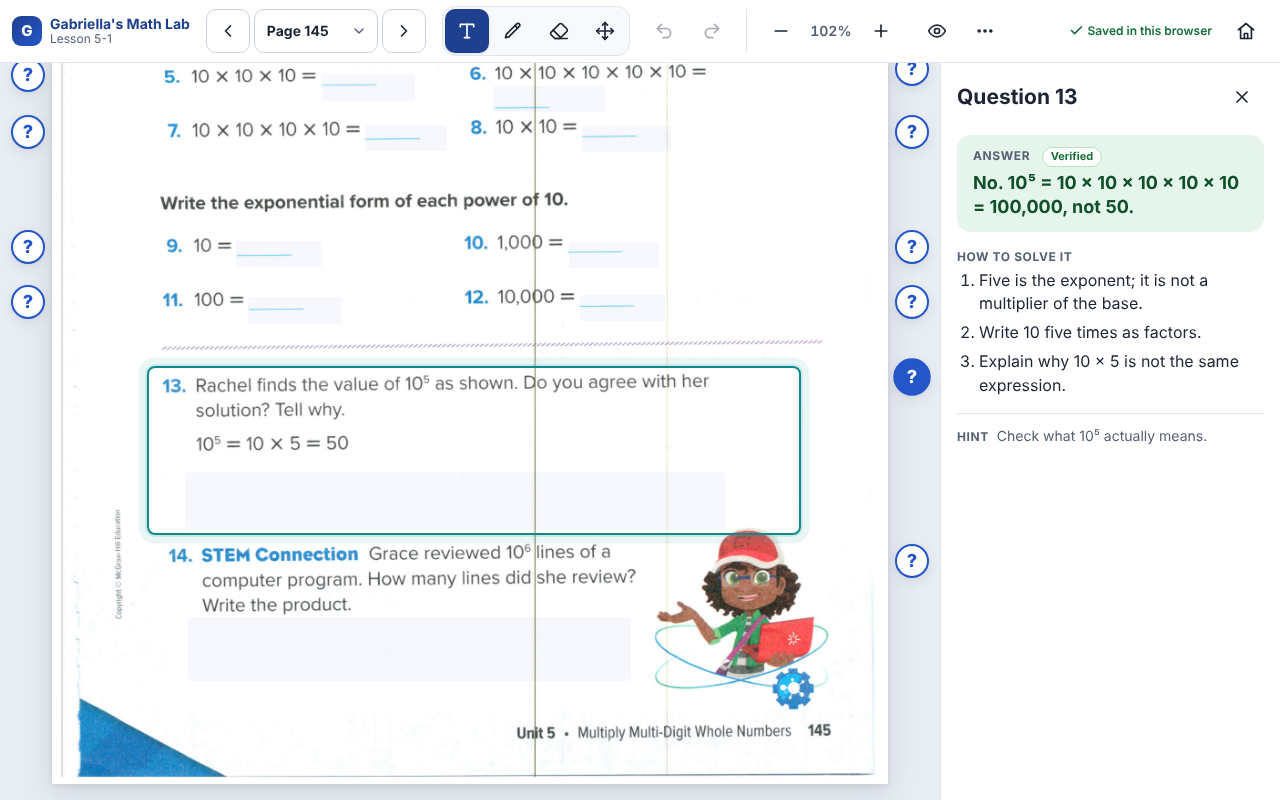
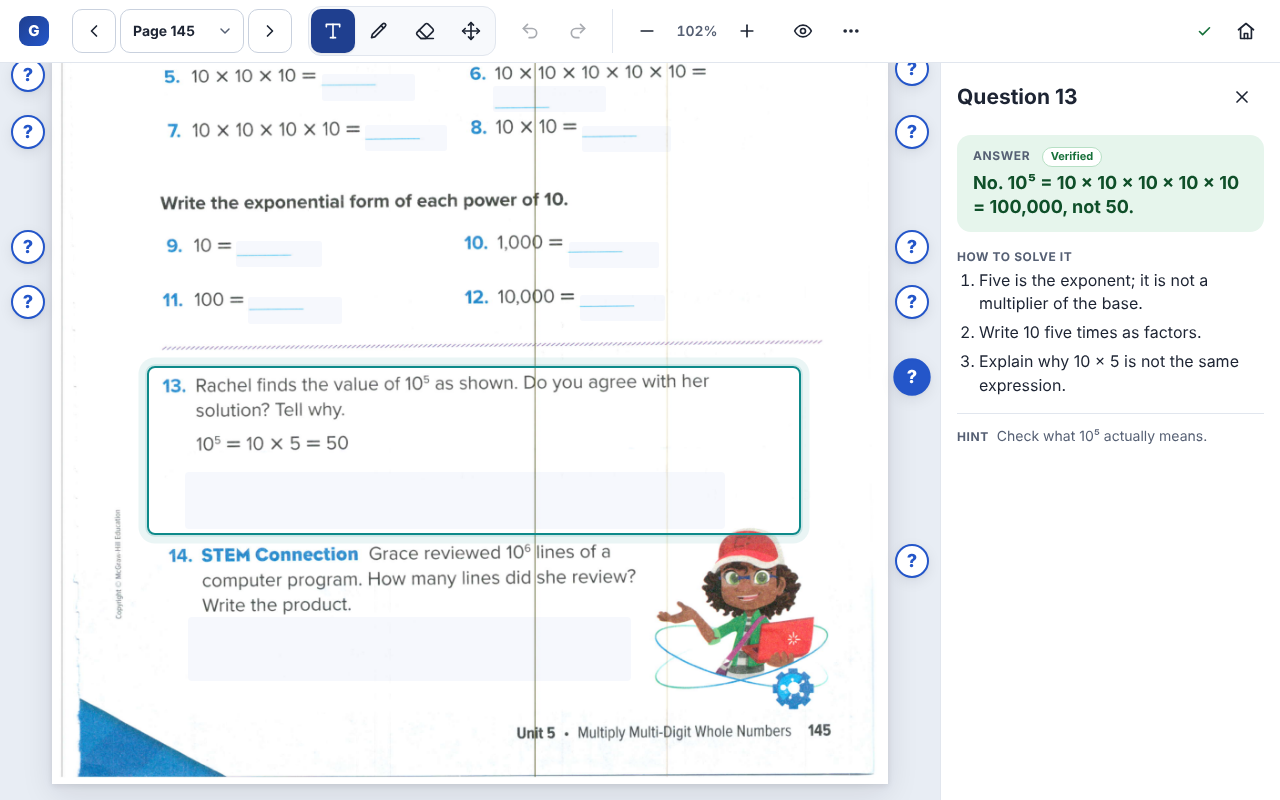
Keep the bar on one row on touch tablets up to 1366px wide
GitHub's test machine (wider fonts) wrapped the Galaxy Tab landscape bar to
two rows. Touch tablets up to iPad Pro landscape now use the compact bar
(logo only, a tick for Saved).

Claude-Session: https://claude.ai/code/session_018dbFcDMd4vdEjZrPDaWnnM

diff --git a/chapter-5/style.css b/chapter-5/style.css
@@ -233,6 +233,8 @@ dialog::backdrop { background: rgb(15 23 42 / .38); }
 /* 8. Responsive ---------------------------------------------------------- */
 /* Mouse and trackpad: compact 36px controls. Touch screens keep 44px targets. */
 @media (pointer: coarse) { :root { --min-box: 26px; } }
+/* Touch tablets up to iPad Pro landscape: 44px controls need the compact bar (logo only, tick for "Saved"). */
+@media (pointer: coarse) and (max-width: 1366px) { .brand-text { display: none; } .save-chip #saveStatus { position: absolute; width: 1px; height: 1px; overflow: hidden; clip: rect(0 0 0 0); } }
 @media (pointer: fine) {
   :root { --tap: 36px; }
   .menu-item { min-height: 36px; }
